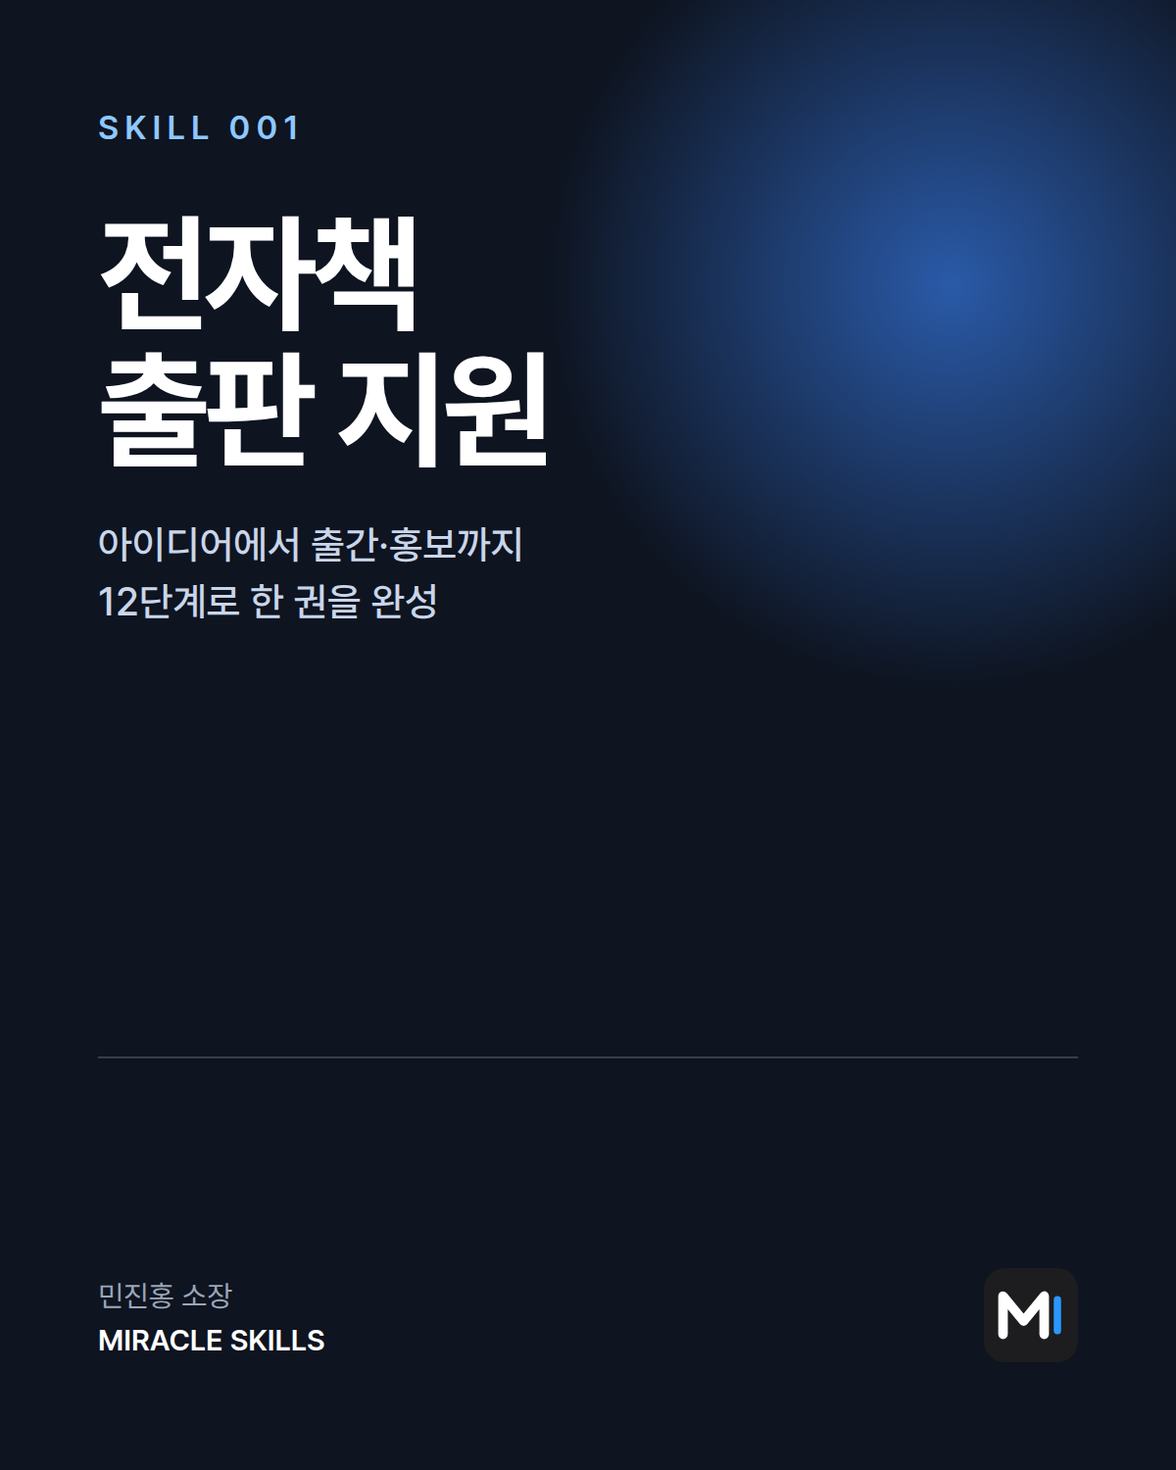
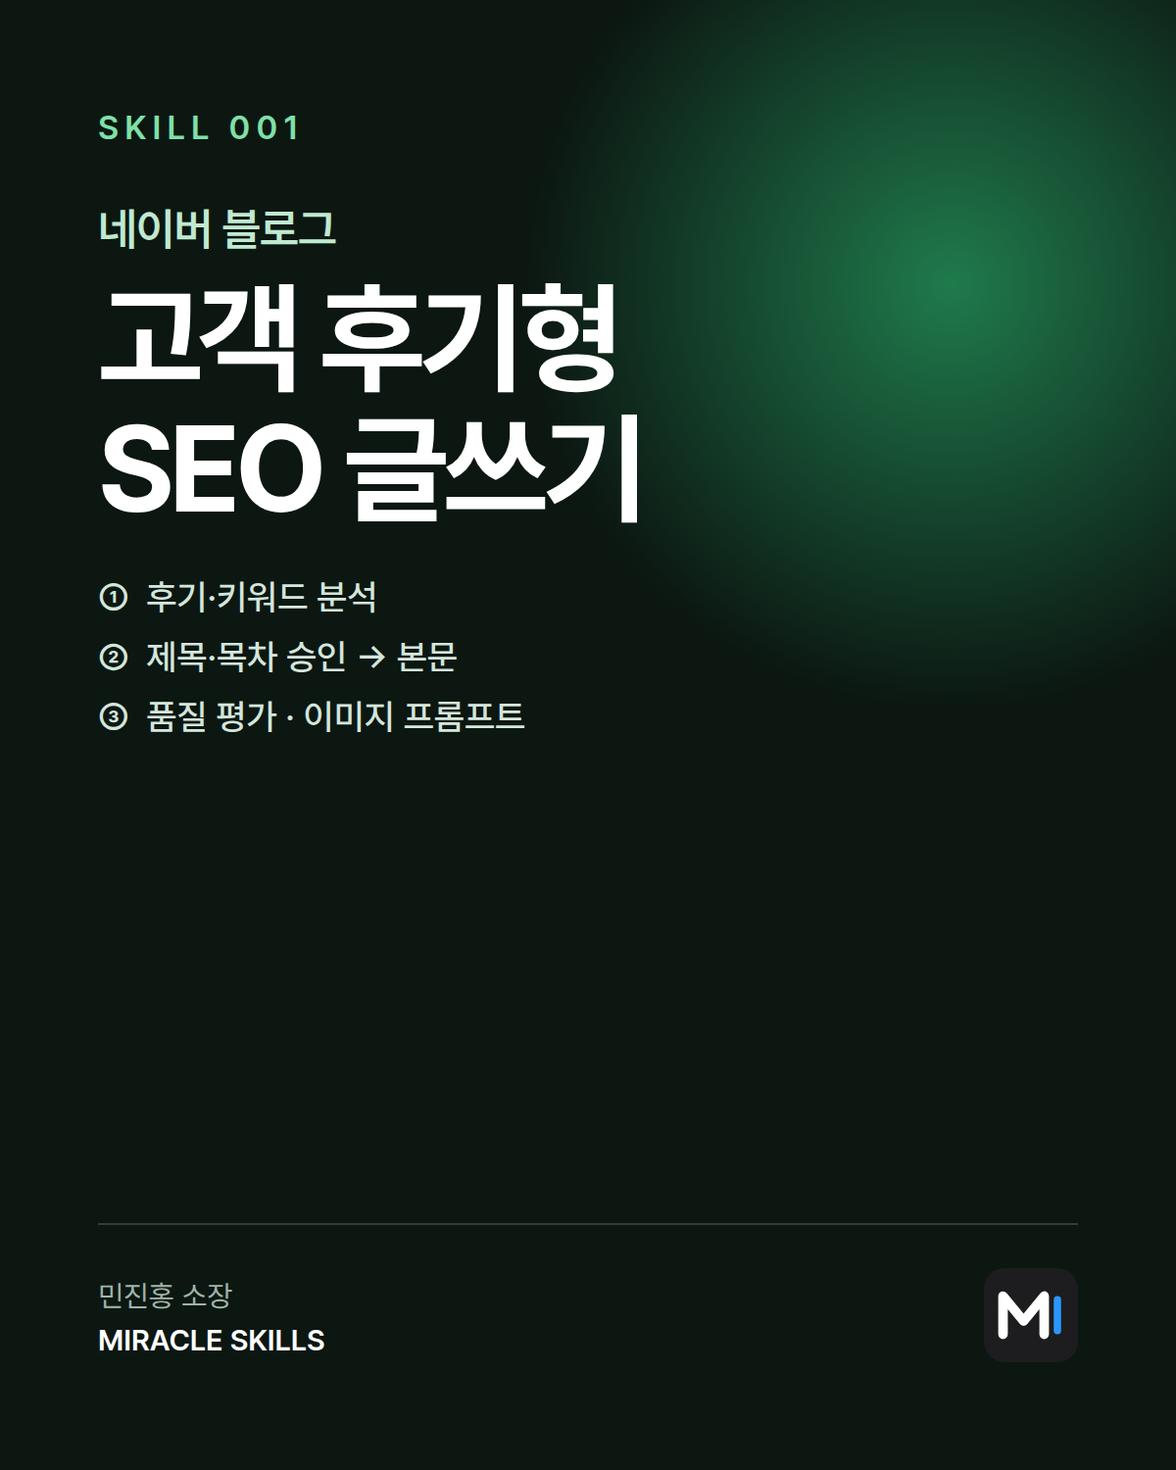
첫 스킬을 네이버 블로그 고객 후기형 SEO 글쓰기로 교체, 결제 후 카페 이동 흐름 추가
- 설명 창: 결제하기(일반/회원가) → 결제 완료 확인 → 네이버 카페로 이동
- thanks.html: 페이앱 결제 완료 후 이동 주소용, 5초 뒤 카페로 자동 이동
- 스킬 글 파일에 결제/회원결제 항목, 본문 소제목(##)·체크 목록(-) 지원
- 설명 창 이미지가 잘리지 않도록 수정

Claude-Session: https://claude.ai/code/session_01RKeS3wnK7x6F4KLYFL4mie

Changed region(s): [[0.0617, 0.0, 1.0, 0.5213], [0.185, 0.0613, 0.2467, 0.092], [0.0925, 0.0613, 0.1542, 0.092]]

diff --git a/app.js b/app.js
@@ -140,6 +140,71 @@
     });
   });
 
+  /* 본문: "## 소제목", "- 목록" 줄을 구분해 표시 (HTML은 그대로 글자로 표시) */
+  function renderBody(box, text) {
+    box.innerHTML = "";
+    var list = null, para = [];
+    function flushPara() { if (para.length) { var p = document.createElement("p"); p.textContent = para.join("\n"); box.appendChild(p); para = []; } }
+    text.split("\n").forEach(function (line) {
+      var t = line.trim();
+      if (/^#{1,3}\s+/.test(t)) { flushPara(); list = null; var h = document.createElement("h4"); h.textContent = t.replace(/^#{1,3}\s+/, ""); box.appendChild(h); }
+      else if (/^[-•·]\s+/.test(t)) { flushPara(); if (!list) { list = document.createElement("ul"); box.appendChild(list); } var li = document.createElement("li"); li.textContent = t.replace(/^[-•·]\s+/, ""); list.appendChild(li); }
+      else if (!t) { flushPara(); list = null; }
+      else { list = null; para.push(t); }
+    });
+    flushPara();
+  }
+
+  /* 결제 → (결제 완료) → 네이버 카페 */
+  function link(cls, text, href) {
+    var a = document.createElement("a");
+    a.className = cls; a.textContent = text;
+    if (href) { a.href = href; a.target = "_blank"; a.rel = "noopener"; }
+    else { a.setAttribute("aria-disabled", "true"); }
+    return a;
+  }
+  function renderBuy(s, paid) {
+    var st = status(s), buy = document.getElementById("d-buy");
+    var cafe = s.cafe || SITE.cafeUrl;
+    buy.innerHTML = "";
+    var hint = document.createElement("p"); hint.className = "d-hint";
+    if (st === "open" || st === "always") {
+      if (paid) {
+        var done = document.createElement("div"); done.className = "d-done";
+        done.innerHTML = "<b>결제를 마치셨나요?</b><span>네이버 카페로 이동해 스킬을 받아 가세요.</span>";
+        buy.appendChild(done);
+        buy.appendChild(link("btn wide", "네이버 카페로 이동 →", cafe));
+        var back = document.createElement("button");
+        back.type = "button"; back.className = "d-back"; back.textContent = "← 결제 화면으로 돌아가기";
+        back.addEventListener("click", function () { renderBuy(s, false); });
+        buy.appendChild(back);
+        return;
+      }
+      var pr = document.createElement("div"); pr.className = "d-prices";
+      pr.innerHTML = "<b></b><span class='mp'></span><span>한 번 받으면 평생 소장</span>";
+      pr.querySelector("b").textContent = won(s.price);
+      pr.querySelector(".mp").textContent = "멤버십 회원 " + won(s.memberPrice);
+      buy.appendChild(pr);
+      var row = document.createElement("div"); row.className = "d-pay";
+      var a1 = link("btn", s.pay ? won(s.price) + " 결제하기" : "결제 준비 중", s.pay);
+      row.appendChild(a1);
+      var a2 = s.memberPay ? link("btn btn-ghost", "회원가 " + won(s.memberPrice) + " 결제", s.memberPay) : null;
+      if (a2) row.appendChild(a2);
+      buy.appendChild(row);
+      [a1, a2].forEach(function (a) { if (a && a.href) a.addEventListener("click", function () { setTimeout(function () { renderBuy(s, true); }, 400); }); });
+      hint.textContent = "결제가 끝나면 네이버 카페로 이동해 스킬을 받습니다" + (st === "open" ? " · " + monthLabel(s.month) + " " + lastDay(s.month) + "일까지 판매" : "");
+      buy.appendChild(hint);
+    } else if (st === "ended") {
+      buy.appendChild(link("btn btn-ghost wide", "네이버 카페에서 자세히 보기 →", cafe));
+      hint.textContent = "판매가 종료된 스킬입니다. 이달의 새 스킬은 갤러리 맨 앞에 있습니다.";
+      buy.appendChild(hint);
+    } else {
+      buy.appendChild(link("btn wide", monthLabel(s.month) + " 1일 공개 예정", ""));
+      hint.textContent = "공개되면 이곳에서 바로 결제할 수 있습니다.";
+      buy.appendChild(hint);
+    }
+  }
+
   /* ── 설명 창 → 카페로 이동 ── */
   var dlg = document.getElementById("detail");
   function openSkill(s) {
@@ -153,38 +218,16 @@
     (s.tags || []).forEach(function (t) { var e = document.createElement("span"); e.textContent = "#" + t; meta.appendChild(e); });
     document.getElementById("d-title").textContent = s.title;
     document.getElementById("d-summary").textContent = s.summary || "";
-    document.getElementById("d-text").textContent = s.body || "";
-
-    var buy = document.getElementById("d-buy");
-    buy.innerHTML = "";
-    var a = document.createElement("a");
-    a.className = "btn wide";
-    a.href = s.cafe || SITE.cafeUrl || "#";
-    a.target = "_blank"; a.rel = "noopener";
-    var hint = document.createElement("p"); hint.className = "d-hint";
-    if (st === "open" || st === "always") {
-      var pr = document.createElement("div"); pr.className = "d-prices";
-      pr.innerHTML = "<b></b><span class='mp'></span><span>한 번 받으면 평생 소장</span>";
-      pr.querySelector("b").textContent = won(s.price);
-      pr.querySelector(".mp").textContent = "멤버십 회원 " + won(s.memberPrice);
-      buy.appendChild(pr);
-      a.textContent = "카페에서 받기 →";
-      hint.textContent = "결제와 다운로드는 카페에서 진행됩니다" + (st === "open" ? " · " + monthLabel(s.month) + " " + lastDay(s.month) + "일까지 판매" : "");
-    } else if (st === "ended") {
-      a.className = "btn btn-ghost wide";
-      a.textContent = "카페에서 자세히 보기 →";
-      hint.textContent = "판매가 종료된 스킬입니다. 이달의 새 스킬은 갤러리 맨 앞에 있습니다.";
-    } else {
-      a.removeAttribute("href"); a.setAttribute("aria-disabled", "true");
-      a.textContent = monthLabel(s.month) + " 1일 공개 예정";
-      hint.textContent = "공개되면 이곳에서 카페로 이동할 수 있습니다.";
-    }
-    buy.appendChild(a); buy.appendChild(hint);
+    renderBody(document.getElementById("d-text"), s.body || "");
+    renderBuy(s);
 
     if (typeof dlg.showModal === "function") dlg.showModal(); else dlg.setAttribute("open", "");
     dlg.querySelector(".d-body").scrollTop = 0;
     if (location.hash !== "#skill-" + s.id) history.replaceState(null, "", "#skill-" + encodeURIComponent(s.id));
   }
+  document.querySelectorAll("[data-open-featured]").forEach(function (b) {
+    b.addEventListener("click", function (e) { if (featured) { e.preventDefault(); openSkill(featured); } });
+  });
   function closeSkill() {
     if (dlg.open) dlg.close();
   }

diff --git a/index.html b/index.html
@@ -68,7 +68,7 @@
         <div>
           <p class="eyebrow">GALLERY</p>
           <h2>스킬 갤러리</h2>
-          <p class="sub">작품을 누르면 설명이 열립니다. 받기는 카페에서 진행됩니다.</p>
+          <p class="sub">스킬을 누르면 설명이 열리고, 그 자리에서 바로 결제할 수 있습니다.</p>
         </div>
         <div class="filters" role="tablist" aria-label="스킬 필터">
           <button role="tab" class="chip on" data-filter="all" aria-selected="true">전체</button>
@@ -86,9 +86,9 @@
     <div class="wrap">
       <div class="sec-head"><div><p class="eyebrow">HOW IT WORKS</p><h2>받는 방법은 간단합니다</h2></div></div>
       <ol class="steps">
-        <li><b>갤러리에서 고르기</b><span>이달에 공개된 스킬의 설명을 읽고 필요한 스킬을 고릅니다.</span></li>
-        <li><b>카페에서 결제·다운로드</b><span>설명 하단의 버튼으로 카페에 들어가 결제하고 바로 내려받습니다.</span></li>
-        <li><b>평생 소장</b><span>한 번 받은 스킬은 기간 제한 없이 계속 사용할 수 있습니다.</span></li>
+        <li><b>스킬 고르기</b><span>갤러리에서 이달에 공개된 스킬을 누르고 설명을 읽습니다.</span></li>
+        <li><b>결제하기</b><span>설명 하단의 결제 버튼으로 일반가 또는 멤버십 회원가로 결제합니다.</span></li>
+        <li><b>네이버 카페에서 받기</b><span>결제가 끝나면 네이버 카페로 이동해 스킬을 내려받고 평생 소장합니다.</span></li>
       </ol>
     </div>
   </section>
@@ -107,10 +107,10 @@
           <p class="plan-v"><span data-price="price">110,000</span>원</p>
           <ul>
             <li>스킬 1개 평생 소장</li>
-            <li>공개된 달에 카페에서 다운로드</li>
+            <li>결제 후 네이버 카페에서 다운로드</li>
             <li>스킬 설명 · 사용 안내 포함</li>
           </ul>
-          <a class="btn btn-ghost wide" data-cafe href="#">카페에서 받기</a>
+          <a class="btn btn-ghost wide" data-open-featured href="#gallery">이달의 스킬 결제하기</a>
         </div>
         <div class="plan plan-member">
           <p class="plan-k">미라클 멤버십 회원 <span class="tag">50% 할인</span></p>
@@ -148,10 +148,10 @@
   <section class="section" id="faq">
     <div class="wrap narrow">
       <div class="sec-head"><div><p class="eyebrow">FAQ</p><h2>자주 묻는 질문</h2></div></div>
-      <details><summary>스킬은 어디에서 결제하고 받나요?</summary><p>각 스킬 설명 하단의 버튼을 누르면 카페로 이동합니다. 카페에서 결제한 뒤 바로 내려받을 수 있습니다.</p></details>
+      <details><summary>스킬은 어디에서 결제하고 받나요?</summary><p>각 스킬 설명 하단의 결제 버튼으로 결제합니다. 결제가 끝나면 네이버 카페로 이동해 스킬을 내려받을 수 있습니다.</p></details>
       <details><summary>왜 한 달만 판매하나요?</summary><p>스킬은 매달 새로 공개되며, 공개된 달에만 받을 수 있습니다. 그 달이 지나면 판매가 끝나고 갤러리에는 설명만 남습니다.</p></details>
       <details><summary>평생 소장이란 무슨 뜻인가요?</summary><p>한 번 내려받은 스킬은 기간 제한 없이 계속 사용할 수 있습니다. 별도의 구독료가 없습니다.</p></details>
-      <details><summary>멤버십 회원가는 어떻게 적용되나요?</summary><p>미라클 멤버십 회원은 모든 스킬을 55,000원에 받을 수 있습니다. 가입과 회원가 적용은 카페에서 안내합니다.</p></details>
+      <details><summary>멤버십 회원가는 어떻게 적용되나요?</summary><p>미라클 멤버십 회원은 모든 스킬을 55,000원에 받을 수 있습니다. 설명 창의 회원가 결제 버튼을 이용하시고, 멤버십 가입은 카페에서 안내합니다.</p></details>
       <details><summary>다른 사람과 공유해도 되나요?</summary><p>구매자 본인의 업무와 사업에만 사용할 수 있습니다. 파일 공유, 재판매, 온라인 공개는 금지됩니다.</p></details>
     </div>
   </section>
@@ -161,7 +161,7 @@
     <div class="wrap">
       <h2>이달의 스킬은<br>이달에만 받을 수 있습니다.</h2>
       <p class="sub" id="closing-sub">다음 달이 되면 새로운 스킬이 공개됩니다.</p>
-      <a href="#feature" class="btn">이달의 스킬 보기</a>
+      <a href="#feature" class="btn" data-open-featured>이달의 스킬 보기</a>
     </div>
   </section>
 </main>

diff --git a/styles.css b/styles.css
@@ -164,25 +164,39 @@ details p { color: var(--sub); margin-top: 10px; }
 dialog { padding: 0; border: 0; border-radius: 24px; background: var(--card); color: var(--ink); width: min(980px, calc(100% - 32px)); max-height: calc(100dvh - 48px); box-shadow: 0 40px 120px rgba(0, 0, 0, .7); }
 dialog::backdrop { background: rgba(0, 0, 0, .72); backdrop-filter: blur(6px); }
 .d-in { display: grid; grid-template-columns: minmax(0, .9fr) minmax(0, 1.1fr); max-height: calc(100dvh - 48px); }
-.d-img { background: #000; }
-.d-img img { width: 100%; height: 100%; object-fit: cover; max-height: calc(100dvh - 48px); }
+.d-img { background: var(--bg-2); display: flex; align-items: flex-start; }
+.d-img img { width: 100%; height: auto; object-fit: contain; object-position: top; max-height: calc(100dvh - 48px); }
 .d-body { padding: 36px 32px 28px; overflow-y: auto; display: flex; flex-direction: column; }
 .d-meta { display: flex; gap: 8px; align-items: center; flex-wrap: wrap; color: var(--dim); font-size: 13px; }
 .d-body h3 { font-size: clamp(24px, 3vw, 32px); line-height: 1.2; margin-top: 12px; }
 .d-summary { color: var(--sub); margin-top: 10px; font-size: 17px; }
-.d-text { margin-top: 20px; color: #d1d1d6; font-size: 15.5px; line-height: 1.75; white-space: pre-line; flex: 1; }
+.d-text { margin-top: 20px; color: #d1d1d6; font-size: 15.5px; line-height: 1.75; flex: 1; display: grid; gap: 12px; align-content: start; }
+.d-text p { white-space: pre-line; }
+.d-text h4 { margin-top: 8px; font-size: 13px; font-weight: 600; letter-spacing: .08em; color: var(--accent); }
+.d-text ul { margin: 0; padding: 0; list-style: none; display: grid; gap: 8px; }
+.d-text li { position: relative; padding: 12px 14px 12px 40px; background: var(--bg-2); border-radius: 12px; }
+.d-text li::before { content: "✓"; position: absolute; left: 15px; top: 12px; color: var(--accent); font-weight: 700; }
 .d-buy { position: sticky; bottom: -28px; margin: 28px -32px -28px; padding: 20px 32px 24px; background: var(--card); border-top: 1px solid rgba(255,255,255,.08); }
 .d-prices { display: flex; gap: 16px; align-items: baseline; flex-wrap: wrap; margin-bottom: 14px; }
 .d-prices b { font-size: 22px; }
 .d-prices span { color: var(--sub); font-size: 14px; }
 .d-prices .mp { color: #6cb6ff; font-weight: 600; font-size: 15px; }
+.d-pay { display: grid; grid-template-columns: 1fr; gap: 10px; }
+.d-pay:has(> :nth-child(2)) { grid-template-columns: 1fr 1fr; }
+.d-pay .btn { width: 100%; padding-inline: 12px; }
+.d-done { display: grid; gap: 4px; margin-bottom: 14px; }
+.d-done b { font-size: 20px; }
+.d-done span { color: var(--sub); font-size: 15px; }
+.d-back { display: block; margin: 12px auto 0; background: none; border: 0; color: var(--sub); font: inherit; font-size: 14px; cursor: pointer; }
+.d-back:hover { color: var(--ink); }
 .d-hint { color: var(--dim); font-size: 12.5px; margin-top: 10px; text-align: center; }
 .d-close { position: absolute; right: 14px; top: 14px; z-index: 2; width: 40px; height: 40px; border-radius: 50%; border: 0; background: rgba(0, 0, 0, .55); color: #fff; font-size: 16px; cursor: pointer; }
 @media (max-width: 760px) {
   dialog { width: 100%; max-width: 100%; max-height: 100dvh; height: 100dvh; border-radius: 0; margin: 0; }
   .d-in { grid-template-columns: minmax(0, 1fr); max-height: 100dvh; height: 100dvh; overflow-y: auto; }
-  .d-img img { max-height: 56vh; }
+  .d-img img { max-height: 56vh; object-fit: cover; }
   .d-body { overflow: visible; padding: 24px 20px 0; }
+  .d-pay:has(> :nth-child(2)) { grid-template-columns: 1fr; }
   .d-buy { position: sticky; bottom: 0; margin: 24px -20px 0; padding: 16px 20px calc(16px + env(safe-area-inset-bottom, 0)); }
 }
 @media (prefers-reduced-motion: reduce) { html { scroll-behavior: auto; } * { transition: none !important; } }

diff --git a/thanks.html b/thanks.html
@@ -1,0 +1,57 @@
+<!doctype html>
+<html lang="ko">
+<head>
+<meta charset="utf-8">
+<meta name="viewport" content="width=device-width, initial-scale=1, viewport-fit=cover">
+<title>결제 완료 — MIRACLE SKILLS</title>
+<meta name="robots" content="noindex">
+<meta name="theme-color" content="#0b0b0c">
+<link rel="icon" href="assets/favicon.svg" type="image/svg+xml">
+<link rel="stylesheet" href="https://cdn.jsdelivr.net/gh/orioncactus/pretendard@v1.3.9/dist/web/variable/pretendardvariable-dynamic-subset.min.css">
+<link rel="stylesheet" href="styles.css">
+<style>
+  .done { min-height: 100dvh; display: grid; place-items: center; text-align: center; padding-block: 48px; }
+  .done-card { width: min(440px, 100%); display: grid; gap: 14px; justify-items: center; }
+  .done-card img { width: 160px; border-radius: 16px; aspect-ratio: 4 / 5; object-fit: cover; }
+  .done-card h1 { font-size: clamp(26px, 6vw, 34px); line-height: 1.25; }
+  .done-card .sub { color: var(--sub); }
+  .done-card .btn { margin-top: 8px; }
+  .done-card .muted { font-size: 14px; }
+</style>
+</head>
+<body>
+<main class="done wrap">
+  <div class="done-card">
+    <img id="t-img" alt="" hidden>
+    <p class="eyebrow">결제 완료</p>
+    <h1>결제가 완료되었습니다.<br>감사합니다.</h1>
+    <p class="sub" id="t-title">네이버 카페에서 스킬을 받아 가세요.</p>
+    <a class="btn wide" id="t-go" href="#">네이버 카페로 이동 →</a>
+    <p class="muted" id="t-count"></p>
+    <a class="muted" href="./">갤러리로 돌아가기</a>
+  </div>
+</main>
+<script src="skills-data.js"></script>
+<script>
+(function () {
+  var SITE = window.SITE || {}, SKILLS = window.SKILLS || [];
+  var id = new URLSearchParams(location.search).get("skill") || (location.hash.match(/skill-([^&]+)/) || [])[1];
+  var s = SKILLS.filter(function (x) { return x.id === id; })[0];
+  var url = (s && s.cafe) || SITE.cafeUrl;
+  var go = document.getElementById("t-go");
+  if (url) go.href = url; else go.setAttribute("aria-disabled", "true");
+  if (s) {
+    document.getElementById("t-title").textContent = "「" + s.title + "」 스킬은 네이버 카페에서 받을 수 있습니다.";
+    var img = document.getElementById("t-img"); img.src = s.image; img.alt = s.title; img.hidden = false;
+  }
+  if (!url) return;
+  var n = 5, c = document.getElementById("t-count");
+  (function tick() {
+    c.textContent = n + "초 뒤 카페로 이동합니다.";
+    if (n-- <= 0) { location.href = url; return; }
+    setTimeout(tick, 1000);
+  })();
+})();
+</script>
+</body>
+</html>

diff --git a/README.md b/README.md
@@ -1,11 +1,11 @@
 # MIRACLE SKILLS — 민진홍 소장의 스킬 갤러리
 
 한 번 받으면 평생 소장하는 민진홍 소장의 스킬을 보여 주는 **갤러리 사이트**입니다.
-스킬을 누르면 설명이 열리고, 설명 하단의 버튼을 누르면 **카페**로 이동해 결제·다운로드합니다.
+스킬을 누르면 설명이 열리고, 설명 하단의 버튼으로 **결제**한 뒤 **네이버 카페**로 이동해 스킬을 받습니다.
 
 - 가격: 스킬 1개당 **일반 110,000원 / 멤버십 회원 55,000원**
 - 판매 기간: 각 스킬은 **공개된 달 한 달만** 판매합니다. 지난 스킬은 "판매 종료"로 표시되고 설명만 볼 수 있습니다.
-- 서버·DB·결제 연동이 없는 정적 사이트입니다. 결제와 다운로드는 모두 카페에서 진행합니다.
+- 서버·DB가 없는 정적 사이트입니다. 결제는 페이앱 결제 링크로, 다운로드는 네이버 카페에서 진행합니다.
 
 ## 스킬 올리는 방법
 
@@ -29,18 +29,26 @@ skills/
 제목: 전자책 출판 지원 스킬
 요약: 아이디어 발굴부터 기획, 집필, 홍보까지 12단계로 한 권을 끝까지 완성합니다.
 공개월: 2026-10
+결제: https://www.payapp.kr/L/xxxxxx
+회원결제: https://www.payapp.kr/L/yyyyyy
 카페: https://cafe.naver.com/100ai/12345
 태그: 출판, 글쓰기
 ---
+## 상품 설명
 여기부터는 본문입니다. 줄바꿈이 그대로 표시됩니다.
+
+## 주요 기능
+- "- "로 시작하는 줄은 체크 목록으로 보입니다.
 ```
 
 | 키 | 필수 | 설명 |
 |---|---|---|
 | 제목 | ✔ | 스킬 이름 |
 | 요약 |  | 카드와 설명 창 상단에 나오는 한 줄 소개 |
-| 공개월 | ✔ | `YYYY-MM` 형식. 이 달에만 "카페에서 받기" 버튼이 활성화됩니다. |
-| 카페 (또는 링크) | ✔ | 이 스킬의 카페 게시글 주소. 비워 두면 `site.json`의 `cafeUrl`로 이동합니다. |
+| 공개월 | ✔ | `YYYY-MM` 형식. 이 달에만 결제 버튼이 활성화됩니다. |
+| 결제 | ✔ | 일반가 페이앱 결제 링크. 비어 있으면 "결제 준비 중"으로 표시됩니다. |
+| 회원결제 |  | 회원가 페이앱 결제 링크. 비워 두면 회원가 버튼이 나오지 않습니다. |
+| 카페 (또는 링크) | ✔ | 결제 후 이동할 카페 게시글 주소. 비워 두면 `site.json`의 `cafeUrl`로 이동합니다. |
 | 태그 |  | 쉼표로 구분 |
 | 일반가 / 회원가 |  | 기본값(110,000 / 55,000)과 다를 때만 입력 |
 | 상시판매 |  | `예`로 적으면 공개월과 관계없이 계속 판매합니다. |
@@ -50,6 +58,14 @@ skills/
 - 이번 달: **판매 중 (D-n)**
 - 지난 달: **판매 종료**
 - 다음 달 이후: **공개 예정**
+
+## 결제 → 카페 이동 흐름
+
+1. 설명 창에서 **결제하기**를 누르면 페이앱 결제창이 새 탭으로 열립니다.
+2. 사이트의 설명 창은 **"결제를 마치셨나요? → 네이버 카페로 이동"** 화면으로 바뀝니다.
+3. 페이앱 링크 설정의 결제 완료 후 이동 주소에 `https://(사이트 주소)/thanks?skill=001`을 넣으면, 결제가 끝나는 즉시 완료 화면이 뜨고 5초 뒤 그 스킬의 카페 글로 자동 이동합니다.
+
+정적 사이트라 결제 여부를 자동으로 확인하지는 않습니다. 실제 스킬 전달은 카페에서 결제 내역을 확인한 뒤 진행하세요.
 
 ## 빌드
 
@@ -66,6 +82,7 @@ node build.mjs     # dist/ 생성 (의존성 없음, Node 18 이상)
 | brand / brandSub | 로고 옆 이름, 첫 화면의 작은 제목 |
 | headline / subline / limitedLine | 첫 화면 문구 (`\n`으로 줄바꿈) |
 | price / memberPrice | 기본 일반가 / 회원가 |
+| payUrl / memberPayUrl | 스킬 글 파일에 결제 링크가 없을 때 쓰는 기본 결제 링크 |
 | cafeUrl | "카페 바로가기" 버튼과 기본 이동 주소 |
 | membershipUrl | "멤버십 알아보기" 버튼 주소 |
 | siteUrl | 실제 도메인 (예: `https://example.com`). 입력하면 SNS 미리보기 이미지 주소가 절대 주소로 바뀝니다. |
@@ -84,6 +101,7 @@ node build.mjs     # dist/ 생성 (의존성 없음, Node 18 이상)
 
 ```
 index.html  styles.css  app.js   ← 화면
+thanks.html                       ← 결제 완료 후 카페로 보내는 화면
 build.mjs                         ← skills/ → dist/ 빌드
 site.json                         ← 사이트 문구·가격·링크
 skills/                           ← 스킬 이미지 + 설명
